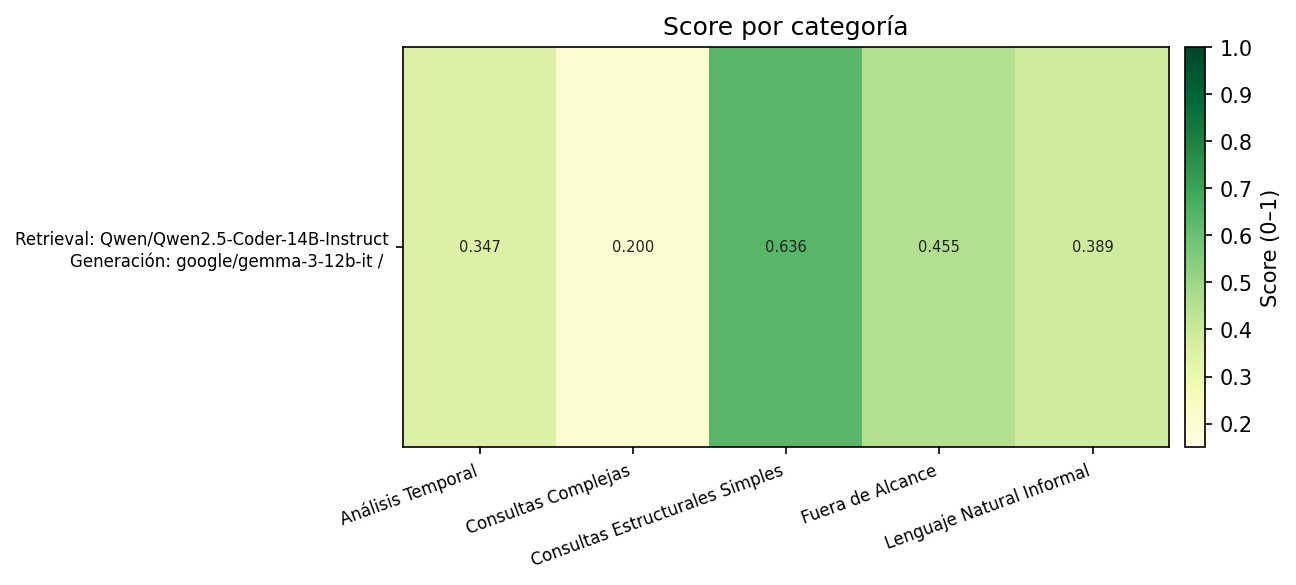
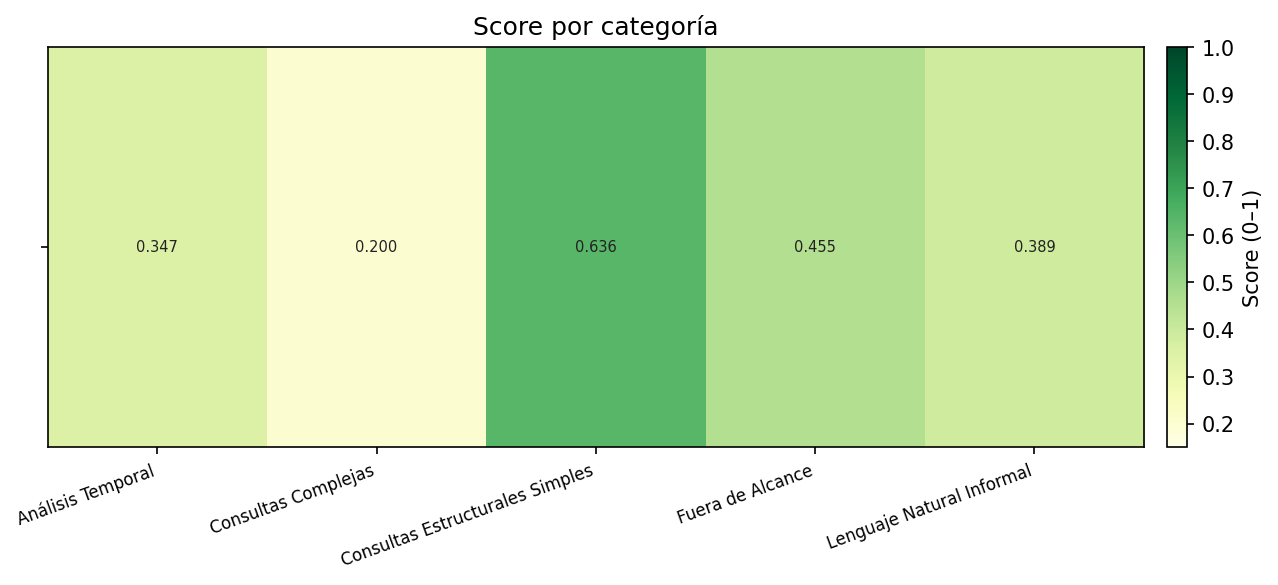
change graphics end to end

diff --git a/evaluation/scripts/evaluate_end_to_end.py b/evaluation/scripts/evaluate_end_to_end.py
@@ -126,7 +126,7 @@ CORPUS_DIR = DATA_DIR / "corpus"
 DOCLING_DIR = DEFAULT_DOCLING_DIR
 CHUNKS_DIR = DATA_DIR / "chunks"
 EXTRACTED_FILENAME = "entity_documents.json"
-RESULTS_DIR = EVAL_DIR / "results" / "end_to_end"
+RESULTS_DIR = EVAL_DIR / "results" / "retrieval_and_generation"
 DEFAULT_DETAILS_PATH = RESULTS_DIR / "end_to_end_details.json"
 DEFAULT_SUMMARY_PATH = RESULTS_DIR / "end_to_end_summary.json"
 
@@ -961,7 +961,7 @@ def generate_charts(results: List[Dict[str, Any]], images_dir: Path) -> Dict[str
     for yi, q in zip(y, quality):
         ax.text(q - 0.001, yi, f"{q:.3f}", va="center", ha="right", fontsize=7, color="white", zorder=5)
     ax.set_yticks(y)
-    ax.set_yticklabels(labels, fontsize=8)
+    ax.tick_params(axis="y", left=False, labelleft=False)
     ax.set_xlim(_zoom_floor(quality + sent), 1.005)
     ax.set_xlabel("Score (0–1)")
     ax.set_title("Calidad global y manejo de centinelas")
@@ -976,7 +976,7 @@ def generate_charts(results: List[Dict[str, Any]], images_dir: Path) -> Dict[str
     # 2) Score por dimensión → heatmap (combos × 3 dimensiones).
     dim_matrix = np.array([[r["dim_means"][d] for d in JUDGE_DIMS] for r in results])
     paths["dimensions"] = _heatmap(
-        images_dir / "chart_dimensions.png", dim_matrix, labels,
+        images_dir / "chart_dimensions.png", dim_matrix, [""] * n,
         [DIM_LABELS[d] for d in JUDGE_DIMS], "Score por dimensión", fig_h,
     )
 
@@ -984,7 +984,7 @@ def generate_charts(results: List[Dict[str, Any]], images_dir: Path) -> Dict[str
     all_cats = sorted({c for r in results for c in r["by_category"]})
     cat_matrix = np.array([[r["by_category"].get(c, np.nan) for c in all_cats] for r in results])
     paths["categories"] = _heatmap(
-        images_dir / "chart_categories.png", cat_matrix, labels, all_cats, "Score por categoría", fig_h,
+        images_dir / "chart_categories.png", cat_matrix, [""] * n, all_cats, "Score por categoría", fig_h,
     )
 
     # 4) Latencia (media + p95): barras horizontales agrupadas, ordenadas por media.
@@ -995,9 +995,9 @@ def generate_charts(results: List[Dict[str, Any]], images_dir: Path) -> Dict[str
     ax.barh(yl + 0.2, [r["latency"]["mean"] for r in by_lat], 0.4, color=PALETTE[3], label="Media")
     ax.barh(yl - 0.2, [r["latency"]["p95"] for r in by_lat], 0.4, color=PALETTE[1], label="p95")
     ax.set_yticks(yl)
-    ax.set_yticklabels(lat_labels, fontsize=8)
+    ax.tick_params(axis="y", left=False, labelleft=False)
     ax.set_xlabel("Segundos")
-    ax.set_title("Latencia de generación por combinación (menor es mejor)")
+    ax.set_title("Latencia de generación por combinación")
     ax.legend(fontsize=8, loc="lower right", framealpha=0.9)
     ax.spines[["top", "right"]].set_visible(False)
     fig.tight_layout()
@@ -1034,10 +1034,10 @@ def generate_charts(results: List[Dict[str, Any]], images_dir: Path) -> Dict[str
             ax.barh(y, vals, 0.62, left=left, label=str(s), color=score_colors[s])
             left += vals
         ax.set_yticks(y)
-        ax.set_yticklabels(labels, fontsize=8)
+        ax.tick_params(axis="y", left=False, labelleft=False)
         ax.set_xlim(0, 100)
         ax.set_xlabel("% de scores del juez")
-        ax.set_title("Distribución de scores del juez (1–5) por combinación")
+        ax.set_title("Distribución de scores del juez (1–5)")
         ax.legend(title="Score", fontsize=8, ncol=5, loc="upper center",
                   bbox_to_anchor=(0.5, -0.06 - 2.0 / fig_h), framealpha=0.9)
         ax.spines[["top", "right"]].set_visible(False)
